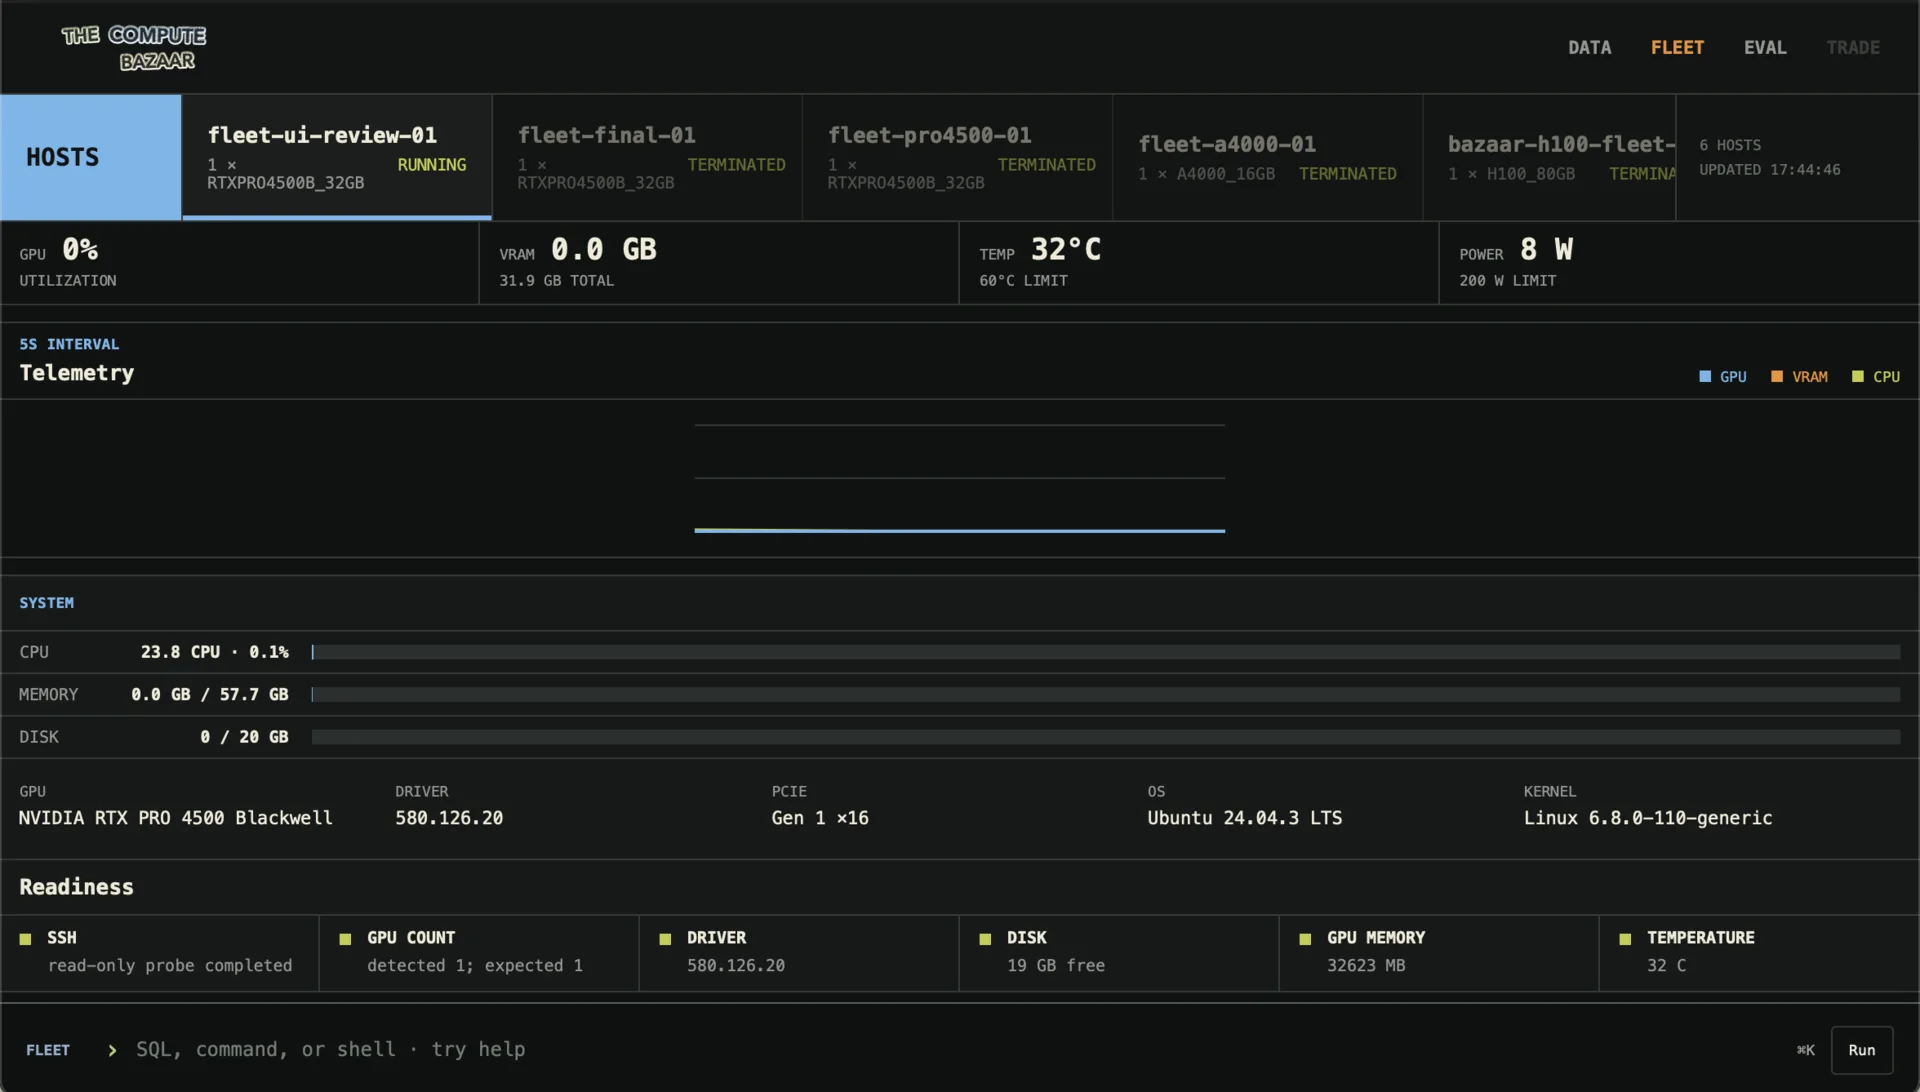
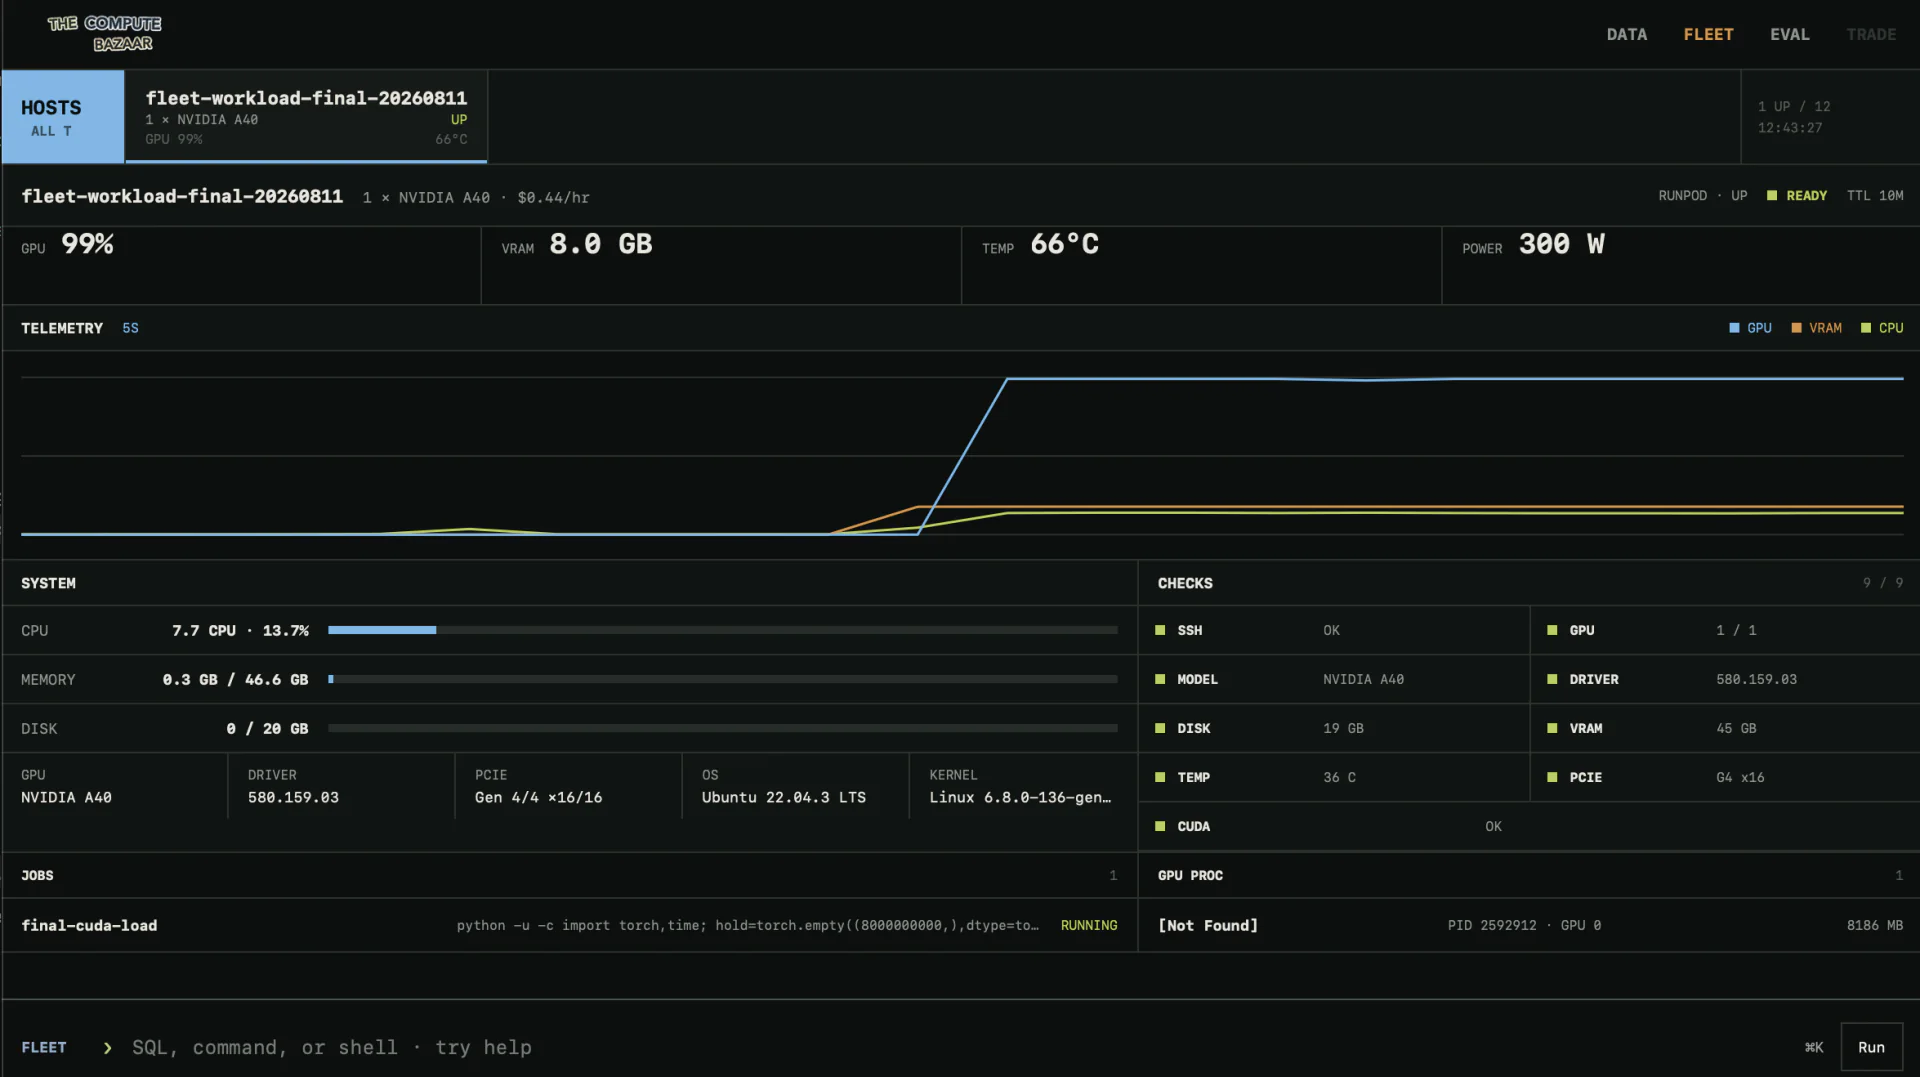
docs: tighten Fleet framing

diff --git a/README.md b/README.md
@@ -159,22 +159,34 @@ compute-bazaar terminal --stop
 ## Fleet
 
 <p align="center">
-  <img src="assets/compute-bazaar-fleet.webp" alt="The Compute Bazaar Fleet watching a live RunPod GPU machine" width="80%">
+  <img src="assets/compute-bazaar-fleet.webp" alt="The Compute Bazaar Fleet monitoring a live RunPod GPU node" width="80%">
 </p>
 
-Fleet connects to NVIDIA machines over SSH, whether Bazaar launched them or
-someone else supplied access. It checks what arrived, reports whether the
-machine is ready, and monitors its GPU, CPU, memory, disk, power, temperature,
-processes, and workloads every five seconds while the Terminal is open.
+Fleet operates NVIDIA nodes over SSH. A node can be provisioned from a live
+offer or attached through OpenSSH. Fleet records inventory, runs readiness
+checks, monitors telemetry and health every five seconds, and tracks workloads
+and logs.
 
-Attach an existing machine through an alias in your OpenSSH config:
+```mermaid
+flowchart LR
+    O["Live offer"] --> C["Availability check"] --> P["Provision"] --> A["Allocation"]
+    S["Existing SSH host"] --> T["Attach"]
+    A --> N["Fleet node"]
+    T --> N
+    N --> I["Inventory"]
+    I --> R["Readiness and diagnostics"]
+    R --> M["Telemetry and health"]
+    R --> W["Workloads and logs"]
+```
+
+Attach an existing node by SSH host alias. OpenSSH resolves its address, user,
+key, agent, and jump host; Fleet stores only the alias.
 
 ```bash
 compute-bazaar fleet attach gpu-singapore-01 --expect H100 --count 8
 ```
 
-OpenSSH resolves the host, key, agent, and any jump host. Fleet stores the alias,
-not the credentials.
+Or launch one from a live offer.
 
 ```bash
 compute-bazaar offers list --provider runpod
@@ -185,37 +197,45 @@ compute-bazaar launch run OFFER_ID \
   --max-hourly-usd 0.75 \
   --runtime-minutes 30 \
   --confirm-spend
+```
 
+Inspect it, run readiness checks, monitor it, and run workloads through the CLI
+or Terminal.
+
+```bash
 compute-bazaar fleet hosts
 compute-bazaar fleet inspect HOST_ID
 compute-bazaar fleet doctor HOST_ID
+compute-bazaar terminal
 compute-bazaar fleet workload run HOST_ID --name training -- python train.py
 compute-bazaar fleet workload list --host HOST_ID
 compute-bazaar fleet workload logs WORKLOAD_ID
-compute-bazaar terminal
 compute-bazaar fleet terminate HOST_ID --confirm
 ```
 
-One catalog follows an offer from the market into Fleet:
+The DataFusion catalog keeps the market, allocation, and Fleet records together.
 
 ```bash
 compute-bazaar sql "select * from silver.current_offers order by price_usd_gpu_hr"
 compute-bazaar sql "select * from silver.offer_observations order by observed_at desc"
-compute-bazaar sql "select * from fleet.machines order by created_at desc"
+compute-bazaar sql "select * from fleet.nodes order by created_at desc"
 compute-bazaar sql "select * from gold.fact_market_to_fleet"
 compute-bazaar model run gpu-launch-candidates
 ```
 
-The hourly run records the market. `offers list` records a direct provider read.
-`launch run` checks the provider again before spending and keeps that exact
-observation on the allocation. Fleet then records the machine and its five-second
-measurements. Remote workloads keep running when the Terminal closes; Fleet keeps
-their process ID, state, exit code, and logs. The hourly and direct reads use the
-same columns, but they run on their own clocks.
+`launch run` checks availability and price again before spending, then records
+the offer on the allocation. Fleet keeps node inventory, five-second telemetry,
+workload state, exit codes, and logs. Remote workloads continue when the
+Terminal closes.
 
-If a provider call ends before RunPod confirms whether it created a machine,
-check the recorded attempt against the provider before trying again:
+If a launch ends before RunPod confirms the result, reconcile it before trying
+again.
 
 ```bash
 compute-bazaar launch reconcile ATTEMPT_ID
 ```
+
+### To do
+
+- GPU PROC [Not Found] bug need to fix
+- add other providers than runpod
